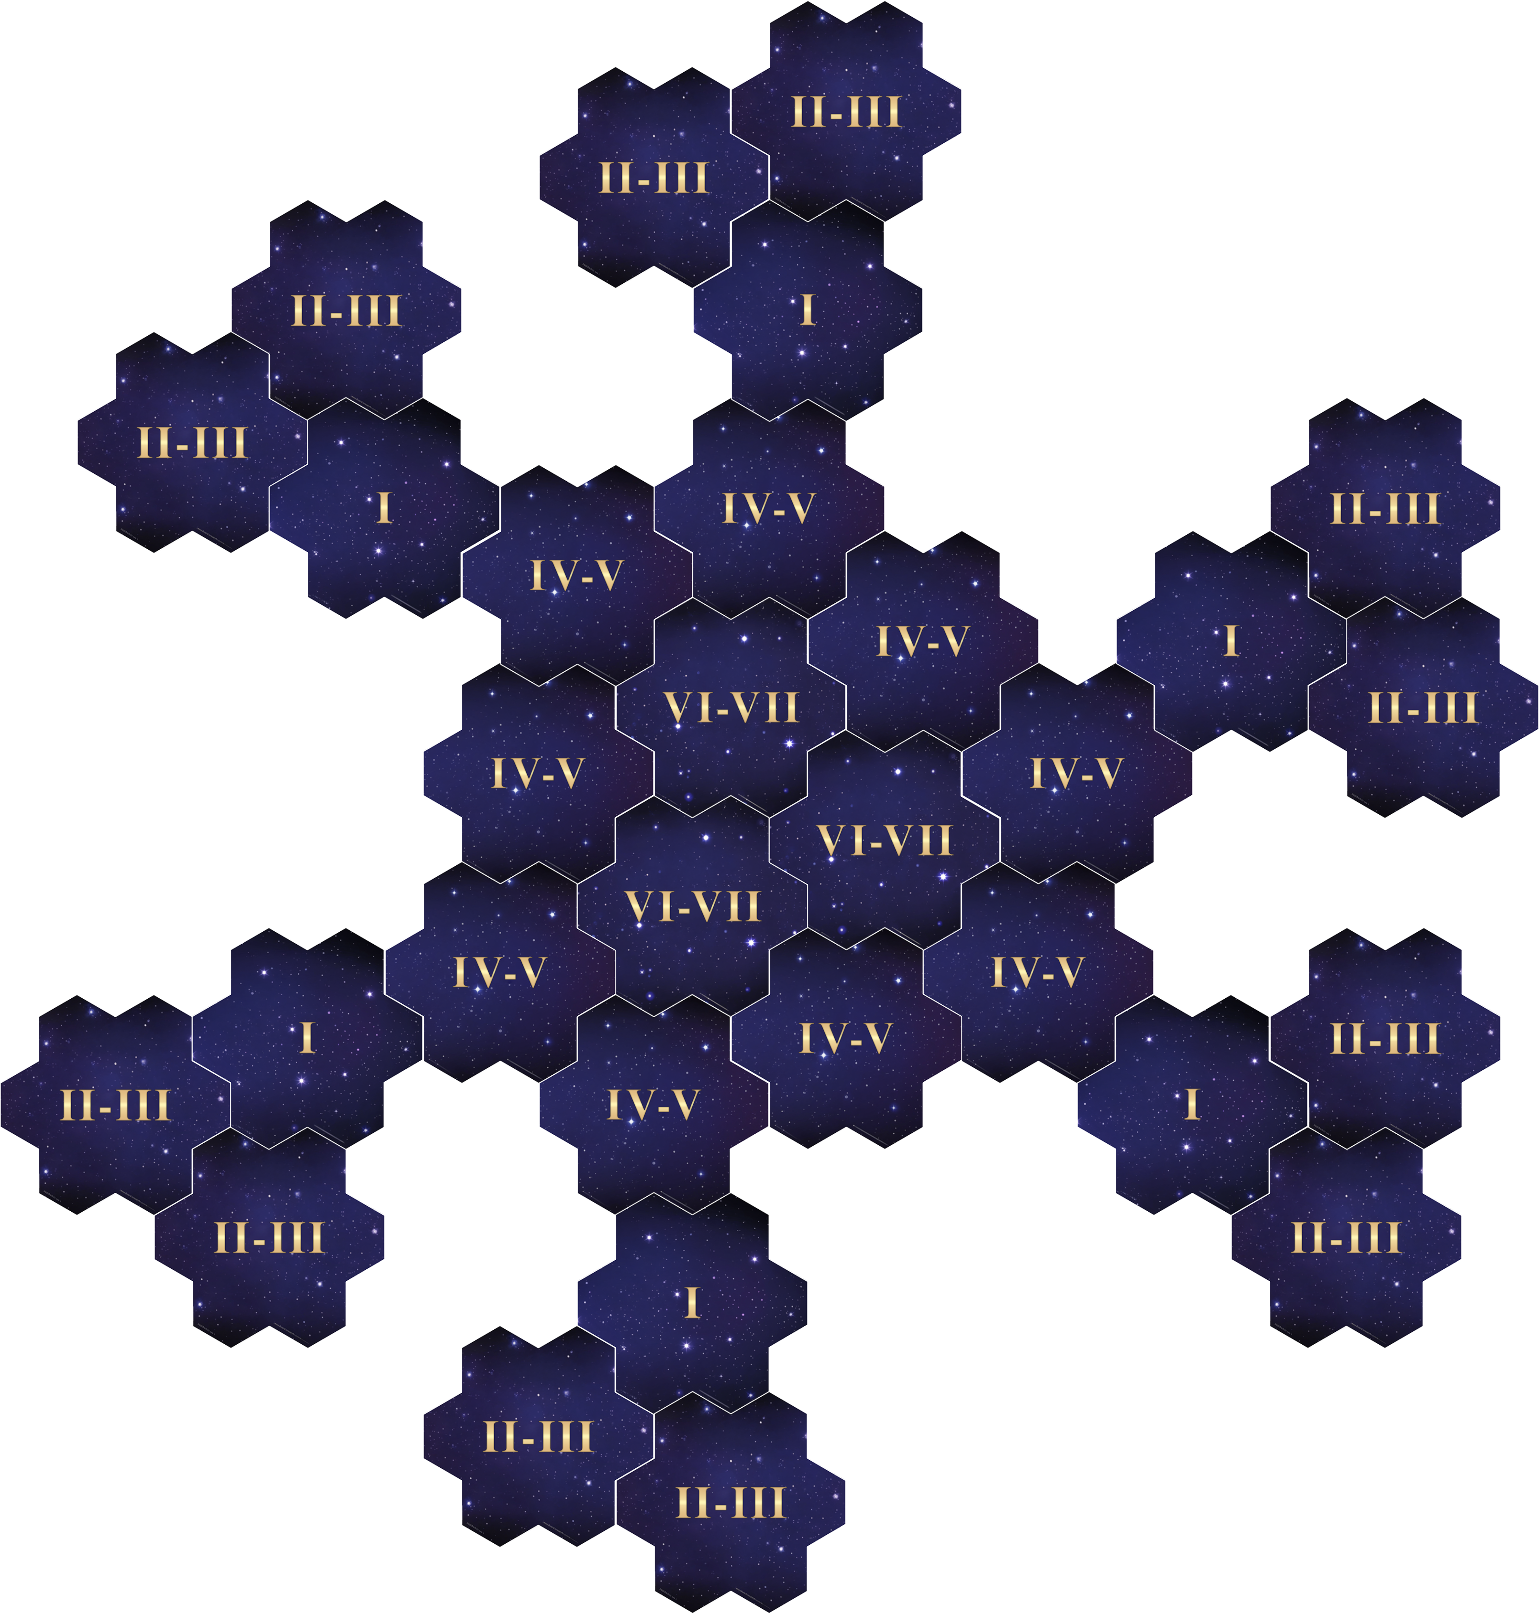
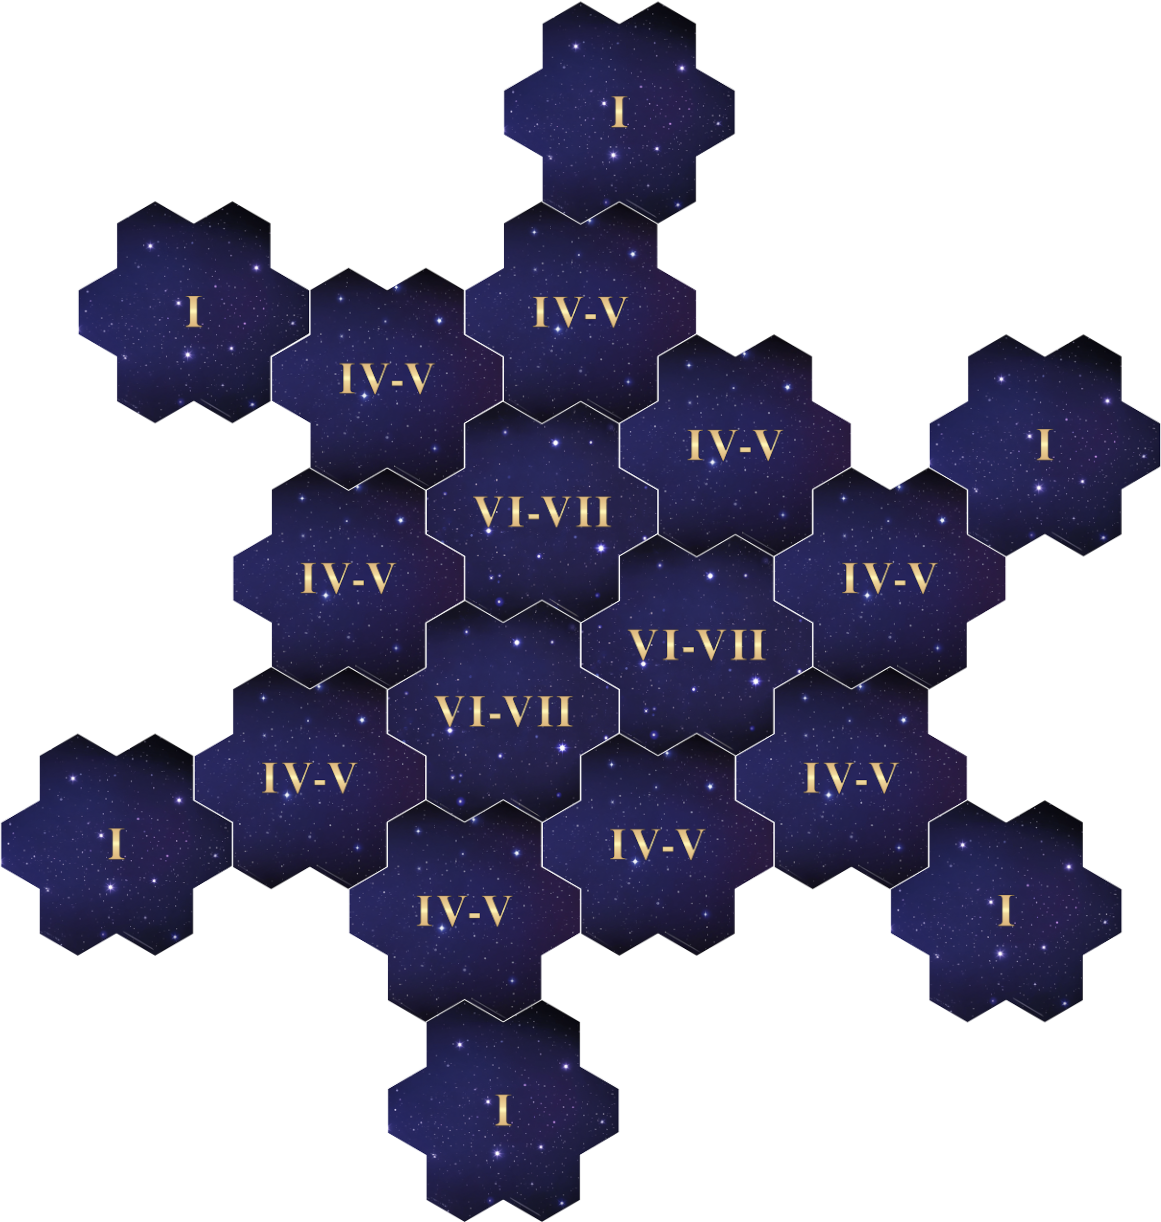
Shattered (#240)

diff --git a/draft-scenarios/clash/shattered_alliance.tex b/draft-scenarios/clash/shattered_alliance.tex
@@ -1,5 +1,5 @@
 % !TeX spellcheck = en_US
-\addscenariosection{1}{Clash/Alliance Scenario}{The Shattered Alliance}{\images/implosion.png}
+\addscenariosection{1}{Clash/Alliance Scenario}{Shattered Alliance}{\images/implosion.png}
 
 \begin{multicols*}{2}
 
@@ -11,16 +11,17 @@
 This Scenario plays out over 14 Rounds.
 
 \subsection*{\MakeUppercase{Player Setup}}
-\textbf{Player Count:} 3 or 6P FFA, 2v2v2 alliance.
+\textbf{Player Count:} 3-6P FFA, 2v2v2 alliance.
 
-\textbf{Starting Resources:} 14 \svg{gold}, 4 \svg{building_materials}, 1 \svg{valuables}
+\textbf{Starting Resources:} 14 \svg{gold}, 2 \svg{building_materials}, 1 \svg{valuables}
 
 \textbf{Starting Income:} 10 \svg{gold}, 0 \svg{building_materials}, 0 \svg{valuables}
 
 \textbf{Starting Units:}
 
 \begin{itemize}
-  \item 2 × Few cheapest \svg{bronze} Units
+  %\item 1 × Pack of cheapest \bronze\ Units
+  \item 1 × Chosen Neutral \bronze\ Unit of the closest starting player's Faction
 \end{itemize}
 
 \textbf{Town Buildings:}
@@ -33,63 +34,47 @@ Take the following Map Tiles and arrange them as shown in the Scenario map layou
 
 \begin{itemize}
   \item 6 × Starting (I) Map Tiles
-  \item 3 × Far (II-III) Map Tiles for each player's Map Pool
+  \item 2 × Far (II-III) Map Tiles for each player
   \item 12 × Near (IV-V) Map Tiles
   \item 3 × Center (VI-VII) Map Tiles
 \end{itemize}
 
 \subsection*{\MakeUppercase{Victory Conditions}}
-The game ends when one player has defeated each other players' Main Hero once \textit{or} at the end of Round 14.
+The game ends when any of the following conditions are met:
+\begin{itemize}
+  \item One player has defeated each other player's Main Hero once. \textit{That player wins the game immediately}
+  \item At the end of Round 14.
+\end{itemize}
 
 \subsection*{\MakeUppercase{Victory Points}}
-The player with the most Victory Points (VP) wins (see Tournament Book). Players gain:
-
+If no player has achieved immediate victory, the player with the most Victory Points (VPs) wins. Players gain:
 \begin{itemize}
-  \item 1 VP for losing a Combat against another player
-  \item 1 VP for each Starting Town captured - \textit{once per captured Faction}
+  \item 2 VP for defeating the closest starting player's Main Hero
+  \item 1 VP for defeating another player's Main Hero
   \item 1 VP for the Grail Token
-  \item 2 VP for winning a Level VII Neutral Combat
-  \item 1 VP for every controlled Mine or Settlement on Near and Center Tiles
-  \item Removed Artifacts count towards VPs
+  \item 1 VP for winning a Level VII Combat
 \end{itemize}
 
 \subsection*{\MakeUppercase{Timed Events}}
-
-\textbf{\nth{1} Round:}
+\textbf{End of \nth{2} Round:}
 \begin{itemize}
-  \item Each player may build the \svg{building_special_tent} building with a discount of 4 \svg{gold} and 2 \svg{building_materials}.
+  \item Each player may resolve all the Fields that their closest starting player visited this Round.
 \end{itemize}
-\textbf{\nth{2} Round:}
+\textbf{\nth{5} Round:}
 \begin{itemize}
-  \item Each player may gain one reward from the Field that the closest player to them visits this Round.
+  \item Remove all Black Cubes from the map except from Learning Stones.
 \end{itemize}
-\textbf{\nth{4} Round:}
+\textbf{\nth{7} Round:}
 \begin{itemize}
-  \item Remove all Black Cubes.
-\end{itemize}
-\textbf{\nth{6} Round:}
-\begin{itemize}
-  \item Secondary Heroes gain +1 \svgeven{movement}.
-\end{itemize}
-\textbf{\nth{8} Round:}
-\begin{itemize}
-  \item Each player may remove up to 5 Black Cubes from the map.
-\end{itemize}
-\textbf{\nth{9} Round:}
-\begin{itemize}
-  \item Player(s) whose Main Hero has the least \svg{experience} roll 2 \svg{resource}.
+  \item Each player may recruit one Neutral \silver\ Unit of the their closest starting player's Faction for half its recruitment cost.
 \end{itemize}
 \textbf{\nth{10} Round:}
 \begin{itemize}
-  \item All players may recruit a Secondary Hero for free.
-\end{itemize}
-\textbf{\nth{11} Round:}
-\begin{itemize}
-  \item Remove all Black Cubes.
+  \item Repeat event of Round 5.
 \end{itemize}
 \textbf{\nth{12} Round:}
 \begin{itemize}
-  \item Each player may recruit one \silver\ Neutral Unit from the closest player's Faction for half its recruitment cost.
+  \item Each player may recruit one Neutral \silver\ Unit of the their closest starting player's Faction for half its recruitment cost.
 \end{itemize}
 
 \subsection*{\MakeUppercase{Additional Rules}}
@@ -97,16 +82,9 @@ The player with the most Victory Points (VP) wins (see Tournament Book). Players
   \item \textbf{Sanctuary:} Choose 1 \svg{spellpower} from your M\&M Deck and add it to your hand, then reshuffle your Deck. \textit{Visitable once per Faction.}
   \item \textbf{Obelisk:} Choose 1 \svg{artifact} from your M\&M Deck and add it to your hand, then reshuffle your Deck. \textit{Visitable once per Faction.}
   \item \textbf{Dragon Utopia:} Defended only by Dragons. Recruit one Neutral Dragon you defeated for half its recruitment cost (rounded up).
-  \item \textbf{Random Town:} On next Resource Round, you may recruit one random Neutral \silver\ Unit by paying its full \svg{pay_v2} cost.
-  \item \textbf{Grail Field:} Gain the Grail Token.
-  \item If you start a turn with the Grail Token, gain \svg{morale_positive} \textit{and} 5 \svg{gold}. If a Hero with the Grail Token is defeated, the Grail Token is given to the winner of that Combat.
-  \item If a Hero with the Grail Token uses Dimension Door, Fly, or Town Portal, the Grail Token is dropped on the origin Field before the Hero moves.
-  \item \textbf{Level VII Settlement:} You may Reinforce \textbf{and} increase income.
-  \item Level VII Neutral Combats cannot be skipped and grant the player \svg{morale_positive}.
-  \item Players do not have to pay \svg{gold} after losing a Combat against another player.
-  \item A defeated Main Hero may Empower one Statistic Card from their hand or Discard Pile \textit{and} gain \svg{morale_positive}.
-  \item With fewer than 6 players, Starting Towns of unused Factions are defended similarly to a Random Town.
-  \item Flagging a Neutral Starting Town increases two separate incomes by 1 space.
+  \item \textbf{Random Town:} On next Resource Round, you may recruit one Unit from the defending Faction for free.
+  \item \textbf{Level VII Settlement:} You may Reinforce \textbf{and} increase all incomes by one space.
+  \item Level VII Neutral Combats cannot be skipped.
 \end{itemize}
 
 \begin{center}
@@ -114,7 +92,23 @@ The player with the most Victory Points (VP) wins (see Tournament Book). Players
   \includegraphics[width=1.0\linewidth]{\maps/shattered_alliance-6p.png}
   \captionof{figure}{\textbf{SCENARIO MAP LAYOUT}}
   \vspace*{\fill}
-  \includegraphics[width=1.1\linewidth]{\maps/shattered_alliance_alt-6p.png}
+\end{center}
+
+\columnbreak
+
+\begin{itemize}
+  \item \textbf{Grail Token:} If you start your turn with the Grail Token, gain \svg{morale_positive}, 10 \svg{gold} and 2 \svg{valuables}. If a Hero with the Grail Token is defeated, the Grail Token is given to the winner of that Combat.
+  \item If a Hero with the Grail Token uses Dimension Door, Fly, or Town Portal, the Grail Token is dropped on the origin Field before the Hero moves.
+  \item A defeated Main Hero may Empower one Statistic Card from their Deck of M\&M.
+  \item With fewer than 6 players, Starting Towns of unused Factions are defended similarly to a Random Town.
+  \item Flagging a Neutral Starting Town increases two separate incomes by 1 space.
+  \item When a Hero moves to a Starting Town, that Hero gains +1 \svgeven{movement}.
+\end{itemize}
+
+\vspace*{\fill}
+
+\begin{center}
+  \includegraphics[width=1.0\linewidth]{\maps/shattered_alliance_alt-6p.png}
   \captionof{figure}{\textbf{ALTERNATIVE MAP LAYOUT}}
   \vspace*{\fill}
 \end{center}
